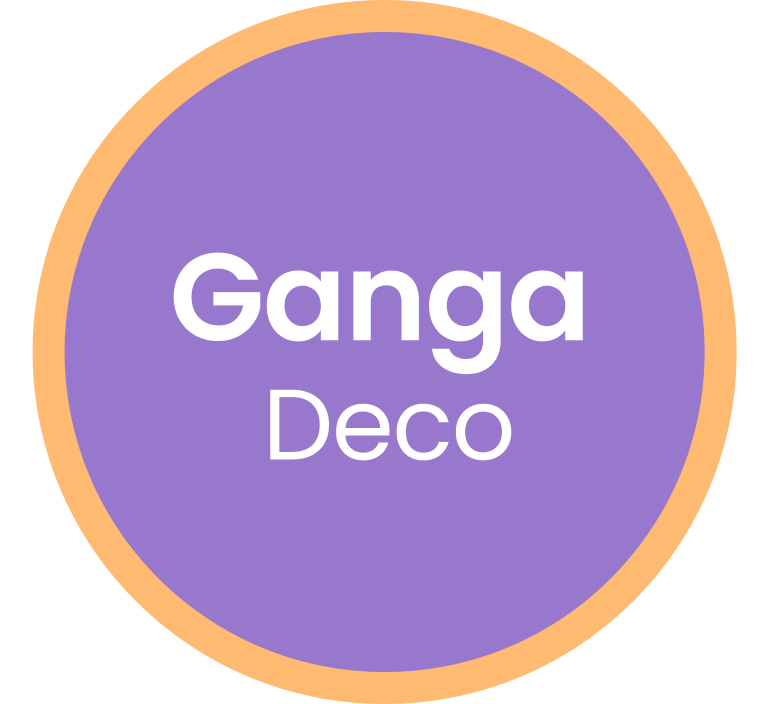
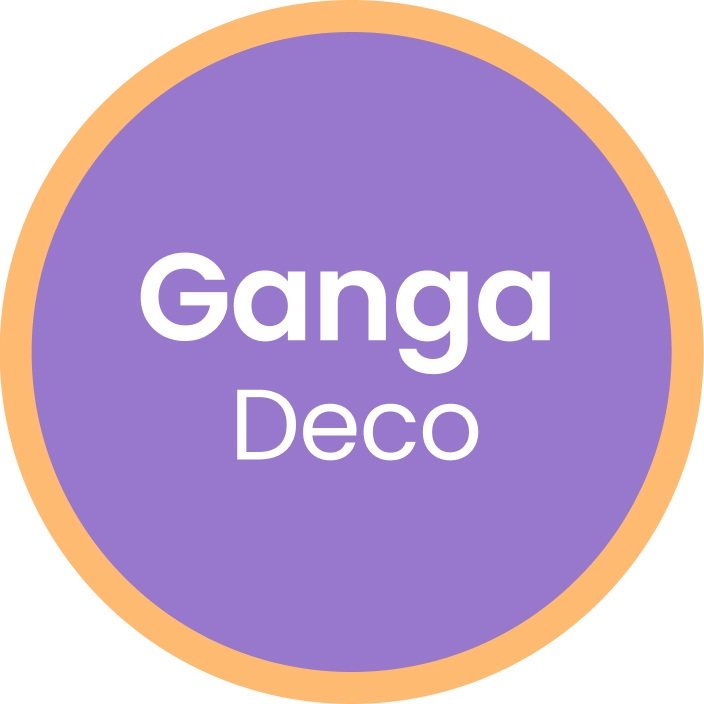
modifico header

diff --git a/components/Header/Header.module.scss b/components/Header/Header.module.scss
@@ -3,14 +3,16 @@
 
 
 .header_main{
-    background: linear-gradient($violet,#9978cdb4);
-    height:20vh;
+    // background: linear-gradient($violet,#9978cdb4);
+    height:22vh;
     width:100%;
     display:flex;
     justify-content:center;
+    justify-items: center;
     padding:0 2rem;
+    padding-top:7vh;
     align-items:flex-start;
-    align-content:flex-end;
+    align-content:center;
     z-index:2000;
 
     @media #{$mobile} {
@@ -25,9 +27,10 @@
 }
 
 .image{
-    width:10rem;
-    height:10rem;
-    transform:translateY(25px);
+    width:8rem;
+    height:8rem;
+   
+
     -webkit-box-shadow: 10px 10px 14px -10px rgba(130,23,130,1);
     -moz-box-shadow: 10px 10px 14px -10px rgba(130,23,130,1);
     box-shadow: 10px 10px 14px -10px rgba(130,23,130,1);
@@ -46,12 +49,12 @@
 }
 .header_links{
     font-family:$font1;
-    transform:translateY(60px);
+    padding-top:4vh;
     font-weight: 700;
     font-size:1.5rem;
     margin:0 2rem ;
 
-    color:white;
+    color:#6C6C6C;
     @media #{$mobile} {
         display:none;
 

diff --git a/components/Header/Header.js b/components/Header/Header.js
@@ -8,7 +8,7 @@ const Header = () =>{
     return(
         <div className={classes.container}>
             <div className={classes.header_main}>
-            <Link  href="/"><img  className={classes.image} src="/logo2.png" alt="Logo Ganga Deco" /></Link>
+            <Link  href="/"><img  className={classes.image} src="/Group1.png" alt="Logo Ganga Deco" /></Link>
                     <Link  href="/gangas"><a className={classes.header_links}>Gangas</a></Link>
                     <Link  href="/comoComprar"><a className={classes.header_links}>Como comprar</a></Link>
                     

diff --git a/styles/globals.css b/styles/globals.css
@@ -5,8 +5,8 @@ body {
     font-family: 'Open Sans', 'Lato', sans-serif;
     color: #414141;
     background-color: red;
-    background-image: url("../public/fondoFormas.png");
-    background-repeat: repeat-y;
+    background-image: url("../public/Fondo web+color.png");
+    background-size: 100%;
     /* background-color: #e4f1f1; */
     width:100%;
     height:100%;
